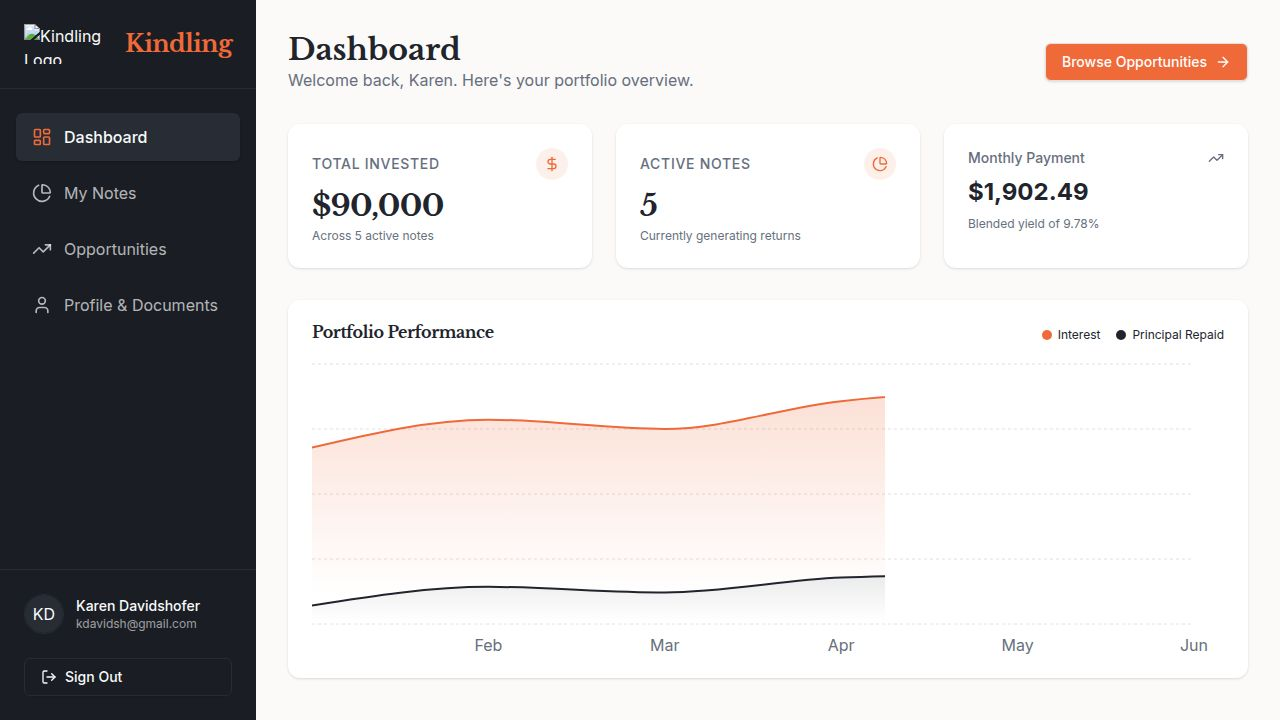
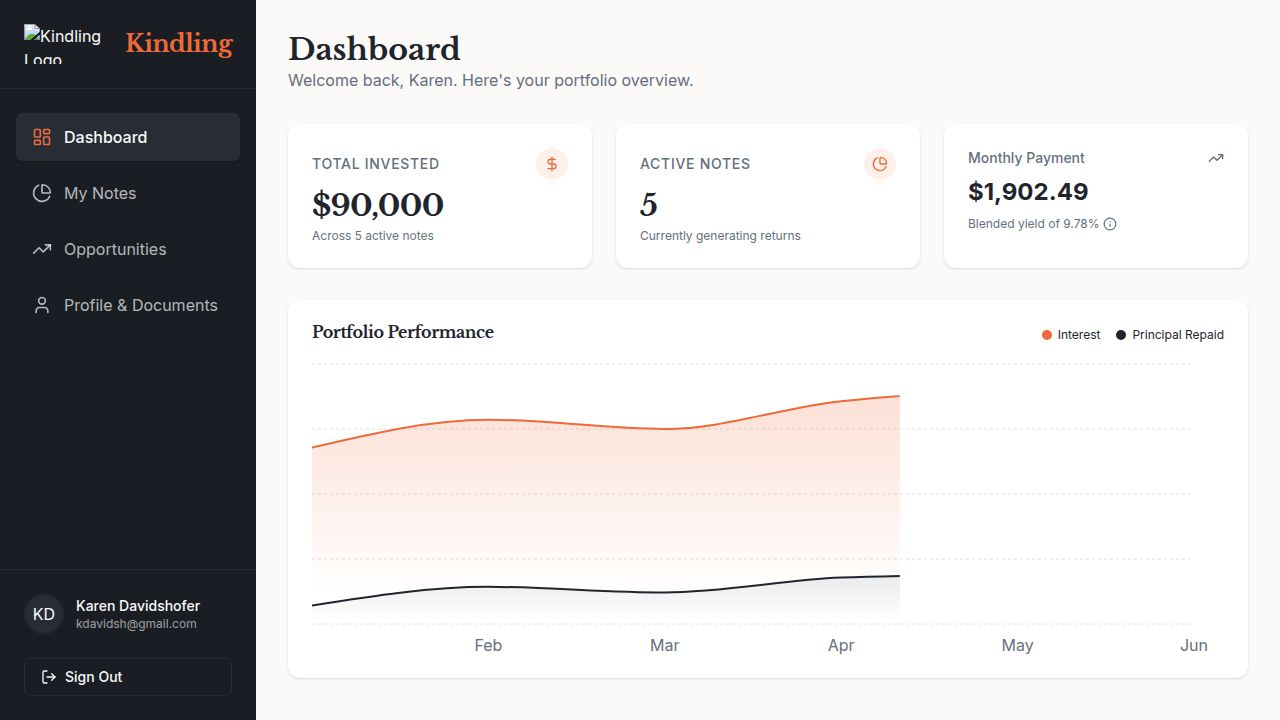
Add info tooltip explaining blended yield on the dashboard
Update dashboard page to include a tooltip for the 'Blended Yield' metric, resolving a naming conflict between Recharts and Radix UI Tooltip components.

Replit-Commit-Author: Agent
Replit-Commit-Session-Id: d1bd6e13-b3eb-441c-80fa-889f2b54210d
Replit-Commit-Checkpoint-Type: full_checkpoint
Replit-Commit-Event-Id: 12033caa-3678-469e-8f75-fa7dfdd66860
Replit-Commit-Screenshot-Url: https://storage.googleapis.com/screenshot-production-us-central1/335797fc-21ed-4aea-879b-713c96c0d5d4/d1bd6e13-b3eb-441c-80fa-889f2b54210d/JeHRR79
Replit-Helium-Checkpoint-Created: true

Changed region(s): [[0.8125, 0.0611, 1.0, 0.1222], [0.6875, 0.55, 0.7188, 0.6722]]

diff --git a/client/src/pages/dashboard-page.tsx b/client/src/pages/dashboard-page.tsx
@@ -1,9 +1,10 @@
 import Layout from "@/components/layout";
 import { StatCard } from "@/components/stat-card";
-import { DollarSign, PieChart, TrendingUp, ArrowRight } from "lucide-react";
+import { DollarSign, PieChart, TrendingUp, ArrowRight, Info } from "lucide-react";
+import { Tooltip as UITooltip, TooltipContent, TooltipProvider, TooltipTrigger } from "@/components/ui/tooltip";
 import { Button } from "@/components/ui/button";
 import { Link } from "wouter";
-import { Area, AreaChart, CartesianGrid, XAxis, Tooltip, ResponsiveContainer } from "recharts";
+import { Area, AreaChart, CartesianGrid, XAxis, Tooltip as RechartsTooltip, ResponsiveContainer } from "recharts";
 import { Card, CardContent, CardHeader, CardTitle } from "@/components/ui/card";
 import { useMyParticipations, formatCurrency, formatCurrencyPrecise } from "@/lib/api";
 import { Skeleton } from "@/components/ui/skeleton";
@@ -82,7 +83,19 @@ export default function DashboardPage() {
                 </CardHeader>
                 <CardContent>
                   <div className="text-2xl font-bold">{formatCurrencyPrecise(totalMonthlyPayment)}</div>
-                  <p className="text-xs text-muted-foreground mt-2">Blended yield of {weightedRate.toFixed(2)}%</p>
+                  <p className="text-xs text-muted-foreground mt-2 flex items-center gap-1">
+                    Blended yield of {weightedRate.toFixed(2)}%
+                    <TooltipProvider>
+                      <UITooltip>
+                        <TooltipTrigger asChild>
+                          <Info className="h-3.5 w-3.5 text-muted-foreground cursor-help" />
+                        </TooltipTrigger>
+                        <TooltipContent side="top" className="max-w-xs text-sm">
+                          <p>The blended yield is the weighted average interest rate across all your note investments, based on the amount invested in each note.</p>
+                        </TooltipContent>
+                      </UITooltip>
+                    </TooltipProvider>
+                  </p>
                 </CardContent>
               </Card>
             </>
@@ -127,7 +140,7 @@ export default function DashboardPage() {
                       tickMargin={10} 
                       tick={{ fill: "hsl(var(--muted-foreground))" }} 
                     />
-                    <Tooltip 
+                    <RechartsTooltip 
                       contentStyle={{ 
                         backgroundColor: "hsl(var(--card))", 
                         borderColor: "hsl(var(--border))",
